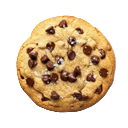
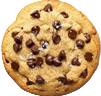
Fix

diff --git a/src/yukkuri_game/scenes/gameplay.py b/src/yukkuri_game/scenes/gameplay.py
@@ -1,37 +1,46 @@
 """
 Gameplay Scene.
 """
-from loguru import logger
-import pygame
-import pygame_gui
+
+import inspect
 import os
 from datetime import datetime
 from typing import ClassVar, Dict, Type
 
-from ..engine.scene import Scene, SceneContext
+import pygame
+import pygame_gui
+from loguru import logger
+
+from ..config import load_config
 from ..engine.application import Application
+from ..engine.audio import AudioManager
 from ..engine.ecs import World
-from ..game.yukkurrium import Yukkurrium, RenderSystem
-from ..game.ui.hud import HUD
-from ..game.systems.physics import PhysicsSystem
-from ..system_registry import SystemRegistry
-from ..game.events import TogglePauseRequest, CycleSpeedRequest, ResolutionChangedEvent, SaveGameRequest, LoadGameRequest
-from ..game.services import EconomyService, TimeService, InputService, GameService
-from ..game.settings_service import SettingsService
-from ..game.trait_service import TraitService
 from ..engine.event_bus import EventBus
 from ..engine.event_manager import EventManager, GamePhase
-from ..engine.input_manager import InputManager, InputContext
-from ..engine.audio import AudioManager
-import inspect
+from ..engine.input_manager import InputContext, InputManager
+from ..engine.scene import Scene, SceneContext
 from ..engine.serializer import WorldSerializer
-from ..config import load_config
-from ..game import components, yukkuri_components, components_persistence
-from ..game.ai.utility import UtilityAIEngine
-from ..game.systems.sector_system import SectorMap, SectorSystem
+from ..game import components, components_persistence, yukkuri_components
 from ..game.ai.navigation_service import NavigationService
-from ..game.systems.physics_reconstruction import reconstruct_physics
+from ..game.ai.utility import UtilityAIEngine
+from ..game.events import (
+    CycleSpeedRequest,
+    LoadGameRequest,
+    ResolutionChangedEvent,
+    SaveGameRequest,
+    TogglePauseRequest,
+)
 from ..game.prefabs.yukkuri import create_yukkuri
+from ..game.services import EconomyService, GameService, InputService, TimeService
+from ..game.settings_service import SettingsService
+from ..game.systems.physics import PhysicsSystem
+from ..game.systems.physics_reconstruction import reconstruct_physics
+from ..game.systems.sector_system import SectorMap, SectorSystem
+from ..game.trait_service import TraitService
+from ..game.ui.hud import HUD
+from ..game.yukkurrium import RenderSystem, Yukkurrium
+from ..system_registry import SystemRegistry
+
 
 class GameplayScene(Scene):
     """
@@ -39,23 +48,24 @@ class GameplayScene(Scene):
     Manages the game world, systems, and UI.
     """
 
-    INJECTIONS: ClassVar[Dict[str, Type]] = {
-        "money": int,
-        "time": float
-    }
+    INJECTIONS: ClassVar[Dict[str, Type]] = {"money": int, "time": float}
 
     def __init__(self, application: Application):
         super().__init__(application)
         self.is_setup = False
         self.paused = False
         self.time_scale = 1.0
-        self.ui_manager = pygame_gui.UIManager((self.application.width, self.application.height))
+        self.ui_manager = pygame_gui.UIManager(
+            (self.application.width, self.application.height)
+        )
         self.dt = 0.0
 
     def on_enter(self) -> None:
         logger.info("Entered Gameplay Scene")
         # setup is called by SceneManager before on_enter
-        self.ui_manager.set_window_resolution((self.application.width, self.application.height))
+        self.ui_manager.set_window_resolution(
+            (self.application.width, self.application.height)
+        )
 
     def setup(self, context: SceneContext) -> None:
         """Sets up the game environment."""
@@ -77,7 +87,7 @@ class GameplayScene(Scene):
         for module in [components, yukkuri_components, components_persistence]:
             for _, obj in inspect.getmembers(module):
                 if inspect.isclass(obj):
-                     comp_types.append(obj)
+                    comp_types.append(obj)
         self.serializer = WorldSerializer(self.world, comp_types)
 
         self._register_services(context)
@@ -94,7 +104,6 @@ class GameplayScene(Scene):
         self.world.services.register(self.yukkurrium, Yukkurrium)
         self.world.services.register(self.physics_system, PhysicsSystem)
         self.world.services.register(self.event_bus, EventBus)
-        self.world.services.register(self.input_manager, InputManager)
         # EventManager and InputManager are registered by Scene base class if present in Application
 
         # Inject Global State
@@ -130,14 +139,14 @@ class GameplayScene(Scene):
             world_width = self.game_config.world.width
             world_height = self.game_config.world.height
             self.world.services.register(
-                 NavigationService(
-                     world_width=world_width,
-                     world_height=world_height,
-                     grid_step_size=self.game_config.world.grid_step_size
-                 )
-             )
+                NavigationService(
+                    world_width=world_width,
+                    world_height=world_height,
+                    grid_step_size=self.game_config.world.grid_step_size,
+                )
+            )
         else:
-             self.world.services.register(NavigationService(world_width, world_height))
+            self.world.services.register(NavigationService(world_width, world_height))
 
     def _init_sector_system(self) -> None:
         """Initializes and registers the Sector System and Map."""
@@ -148,10 +157,12 @@ class GameplayScene(Scene):
         if self.game_config:
             world_width = self.game_config.world.width
             world_height = self.game_config.world.height
-            if hasattr(self.game_config.world, 'sector_size'):
+            if hasattr(self.game_config.world, "sector_size"):
                 sector_size = self.game_config.world.sector_size
 
-        sector_system = SectorSystem(width=world_width, height=world_height, sector_size=sector_size)
+        sector_system = SectorSystem(
+            width=world_width, height=world_height, sector_size=sector_size
+        )
         self.world.services.register(sector_system.sector_map, SectorMap)
         self.world.add_system(sector_system)
 
@@ -163,6 +174,7 @@ class GameplayScene(Scene):
 
     def _register_factories_and_managers(self) -> None:
         from ..game.entity_factory import EntityFactory
+
         self.entity_factory = EntityFactory(self.world)
         self.world.services.register(self.entity_factory, EntityFactory)
 
@@ -179,7 +191,7 @@ class GameplayScene(Scene):
             self.game_config,
             self.yukkurrium,
             self.event_bus,
-            self.physics_system
+            self.physics_system,
         )
         self.input_system.set_ui_manager(self.ui_manager)
 
@@ -212,10 +224,14 @@ class GameplayScene(Scene):
         self.ui_manager.clear_and_reset()
 
         # Sync back global state to Application/SceneManager
-        if hasattr(self, 'economy_service'):
-             self.application.scene_manager.set_global_data("money", self.economy_service.get_money())
-        if hasattr(self, 'time_service'):
-             self.application.scene_manager.set_global_data("time", self.time_service.time_elapsed)
+        if hasattr(self, "economy_service"):
+            self.application.scene_manager.set_global_data(
+                "money", self.economy_service.get_money()
+            )
+        if hasattr(self, "time_service"):
+            self.application.scene_manager.set_global_data(
+                "time", self.time_service.time_elapsed
+            )
 
     def toggle_pause(self) -> None:
         self.paused = not self.paused
@@ -251,7 +267,9 @@ class GameplayScene(Scene):
         if not os.path.exists("screenshots"):
             os.makedirs("screenshots")
 
-        filename = f"screenshots/screenshot_{datetime.now().strftime('%Y%m%d_%H%M%S')}.png"
+        filename = (
+            f"screenshots/screenshot_{datetime.now().strftime('%Y%m%d_%H%M%S')}.png"
+        )
         pygame.image.save(self.application.screen, filename)
         logger.info(f"Screenshot saved to {filename}")
 
@@ -272,9 +290,10 @@ class GameplayScene(Scene):
 
         # Save Global Data
         import json
+
         global_data = {
             "money": self.economy_service.get_money(),
-            "time": self.time_service.time_elapsed
+            "time": self.time_service.time_elapsed,
         }
         with open(global_path, "w") as f:
             json.dump(global_data, f)
@@ -294,12 +313,13 @@ class GameplayScene(Scene):
 
         # Clear World
         self.world.clear_database()
-        if hasattr(self, 'physics_system'):
+        if hasattr(self, "physics_system"):
             self.physics_system.clear()
         self.yukkurrium.clear()
 
         # Load Global Data
         import json
+
         with open(global_path, "r") as f:
             global_data = json.load(f)
 
@@ -321,7 +341,7 @@ class GameplayScene(Scene):
 
         if not self.paused:
             sim_dt = dt * self.time_scale
-            if hasattr(self, 'time_service'):
+            if hasattr(self, "time_service"):
                 self.time_service.time_elapsed += sim_dt
 
             self.event_manager.process_phase(GamePhase.UPDATE)
@@ -345,33 +365,40 @@ class GameplayScene(Scene):
             self.ui_manager.draw_ui(self.application.screen)
 
     def render_world(self) -> None:
-        if hasattr(self, 'render_system') and self.render_system:
+        if hasattr(self, "render_system") and self.render_system:
             self.render_system.update(self.world, self.dt)
 
     def handle_event(self, event: pygame.event.Event) -> None:
         self.ui_manager.process_events(event)
         self.input_manager.process_event(event)
 
-        if hasattr(self, 'yukkurrium'):
-             self.yukkurrium.handle_input(event, self.application.width, self.application.height)
+        if hasattr(self, "yukkurrium"):
+            self.yukkurrium.handle_input(
+                event, self.application.width, self.application.height
+            )
 
         if self.input_manager.is_action_just_pressed("pause"):
             # Update global state before leaving
-            self.application.scene_manager.set_global_data("money", self.economy_service.get_money())
-            self.application.scene_manager.set_global_data("time", self.time_service.time_elapsed)
+            self.application.scene_manager.set_global_data(
+                "money", self.economy_service.get_money()
+            )
+            self.application.scene_manager.set_global_data(
+                "time", self.time_service.time_elapsed
+            )
 
             from .main_menu import MainMenuScene
+
             self.application.scene_manager.replace(MainMenuScene(self.application))
             return
 
         if not self.application.headless:
             if self.input_manager.is_action_just_pressed("debug_toggle"):
-                 self.hud.toggle_debug()
+                self.hud.toggle_debug()
             elif self.input_manager.is_action_just_pressed("screenshot"):
-                 self.take_screenshot()
+                self.take_screenshot()
             elif self.input_manager.is_action_just_pressed("quicksave"):
-                 self.save("quicksave")
+                self.save("quicksave")
             elif self.input_manager.is_action_just_pressed("quickload"):
-                 self.load("quicksave")
+                self.load("quicksave")
 
             self.hud.process_event(event)
